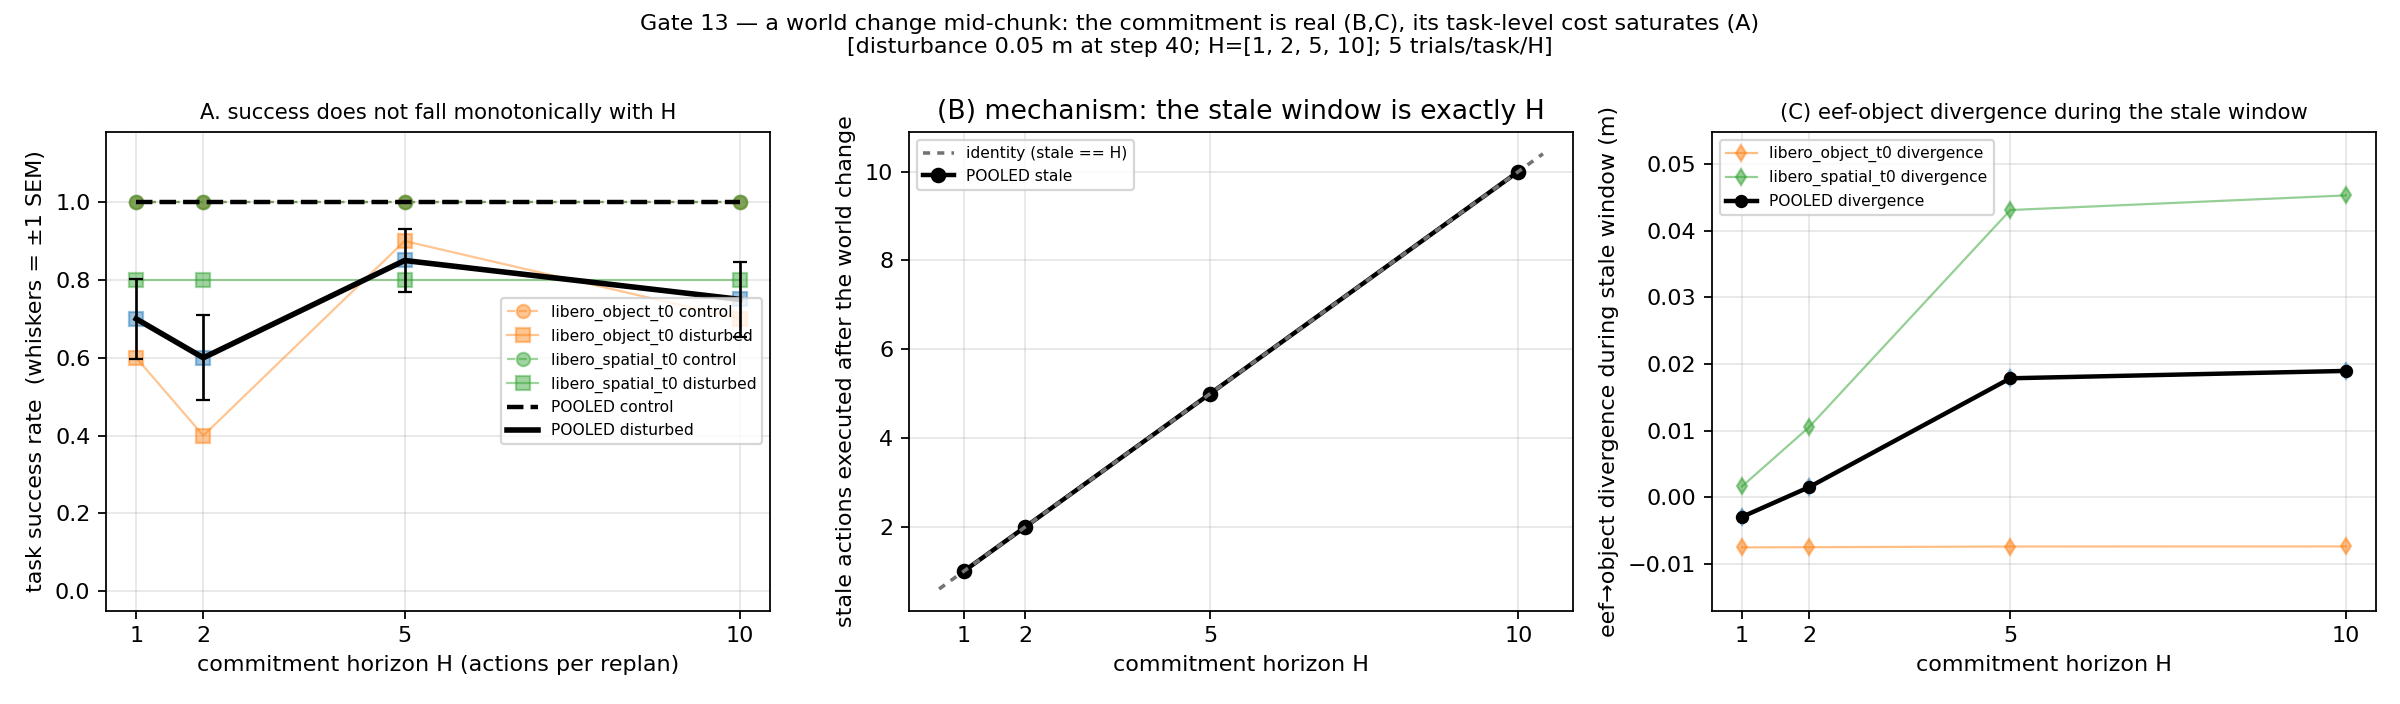
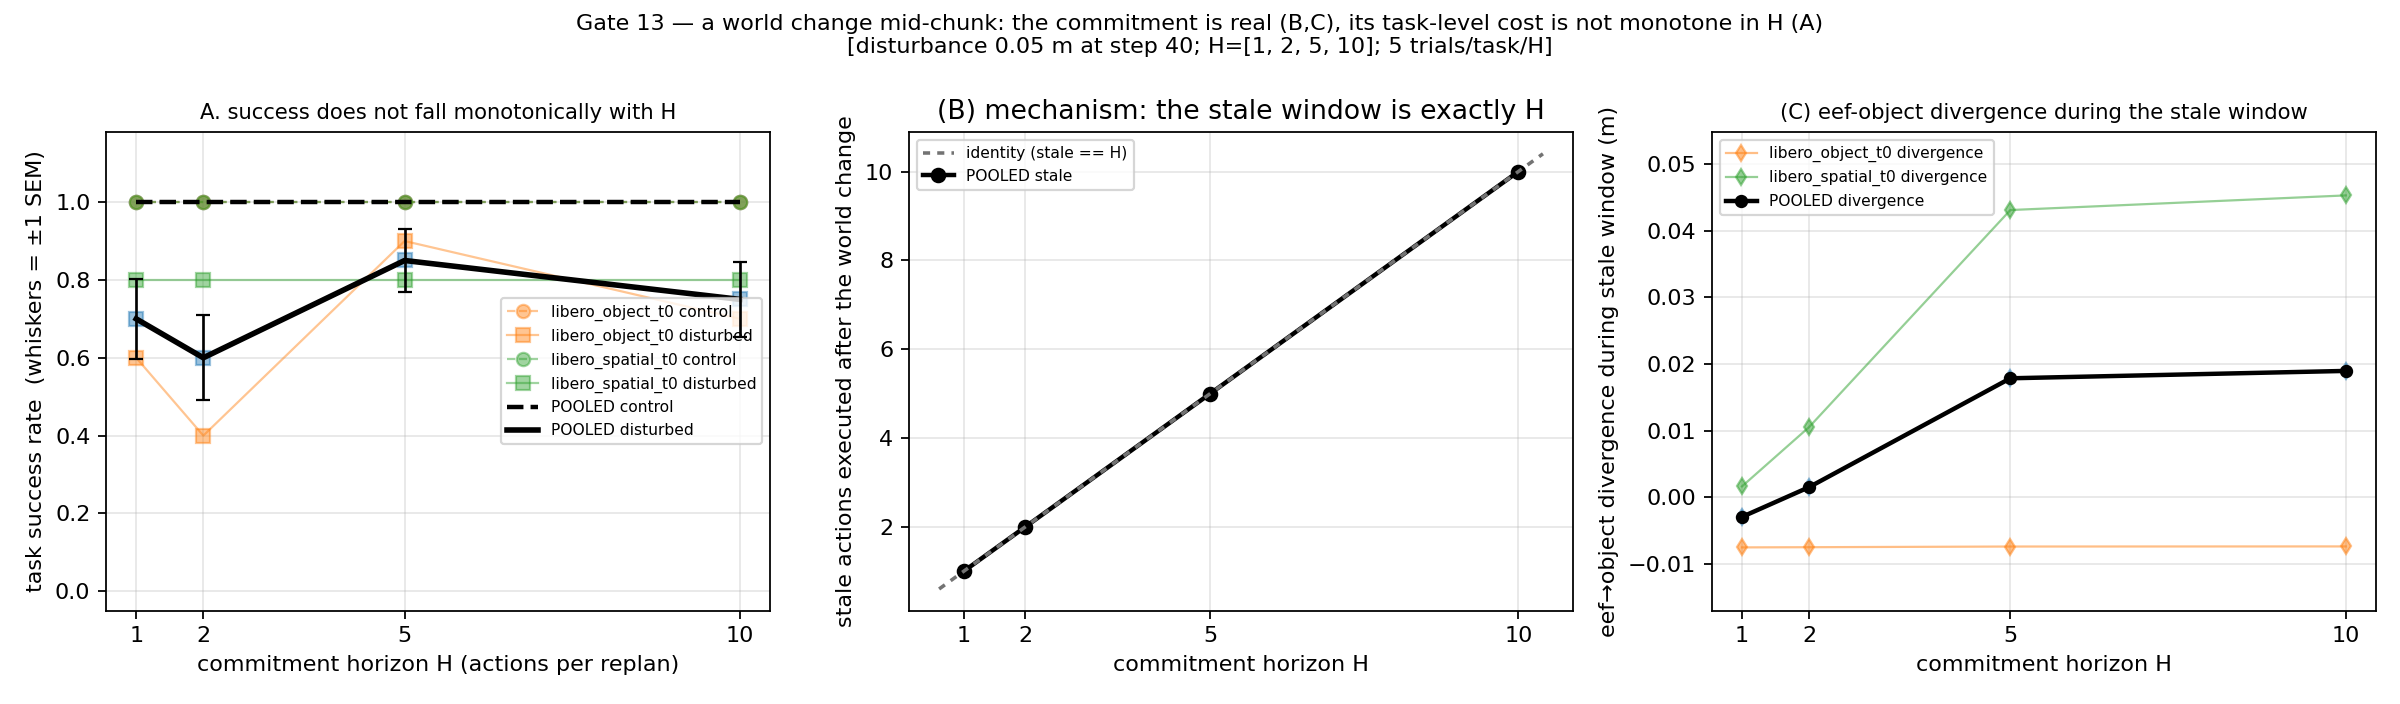
fix(gate13): suptitle matches the data (non-monotone, not saturating)

Changed region(s): [[0.25, 0.0, 0.75, 0.0625]]

diff --git a/scripts_setup/gate13_figure.py b/scripts_setup/gate13_figure.py
@@ -115,7 +115,7 @@ if cfg.get("world_step") is not None:
     _sub = (f"\n[disturbance {cfg.get('magnitude_m')} m at step {cfg.get('world_step')}; "
             f"H={cfg.get('horizons')}; {cfg.get('trials')} trials/task/H]")
 fig.suptitle("Gate 13 — a world change mid-chunk: the commitment is real (B,C), "
-             "its task-level cost saturates (A)" + _sub, fontsize=10)
+             "its task-level cost is not monotone in H (A)" + _sub, fontsize=10)
 fig.tight_layout()
 out_png.parent.mkdir(parents=True, exist_ok=True)
 fig.savefig(out_png, dpi=160)
